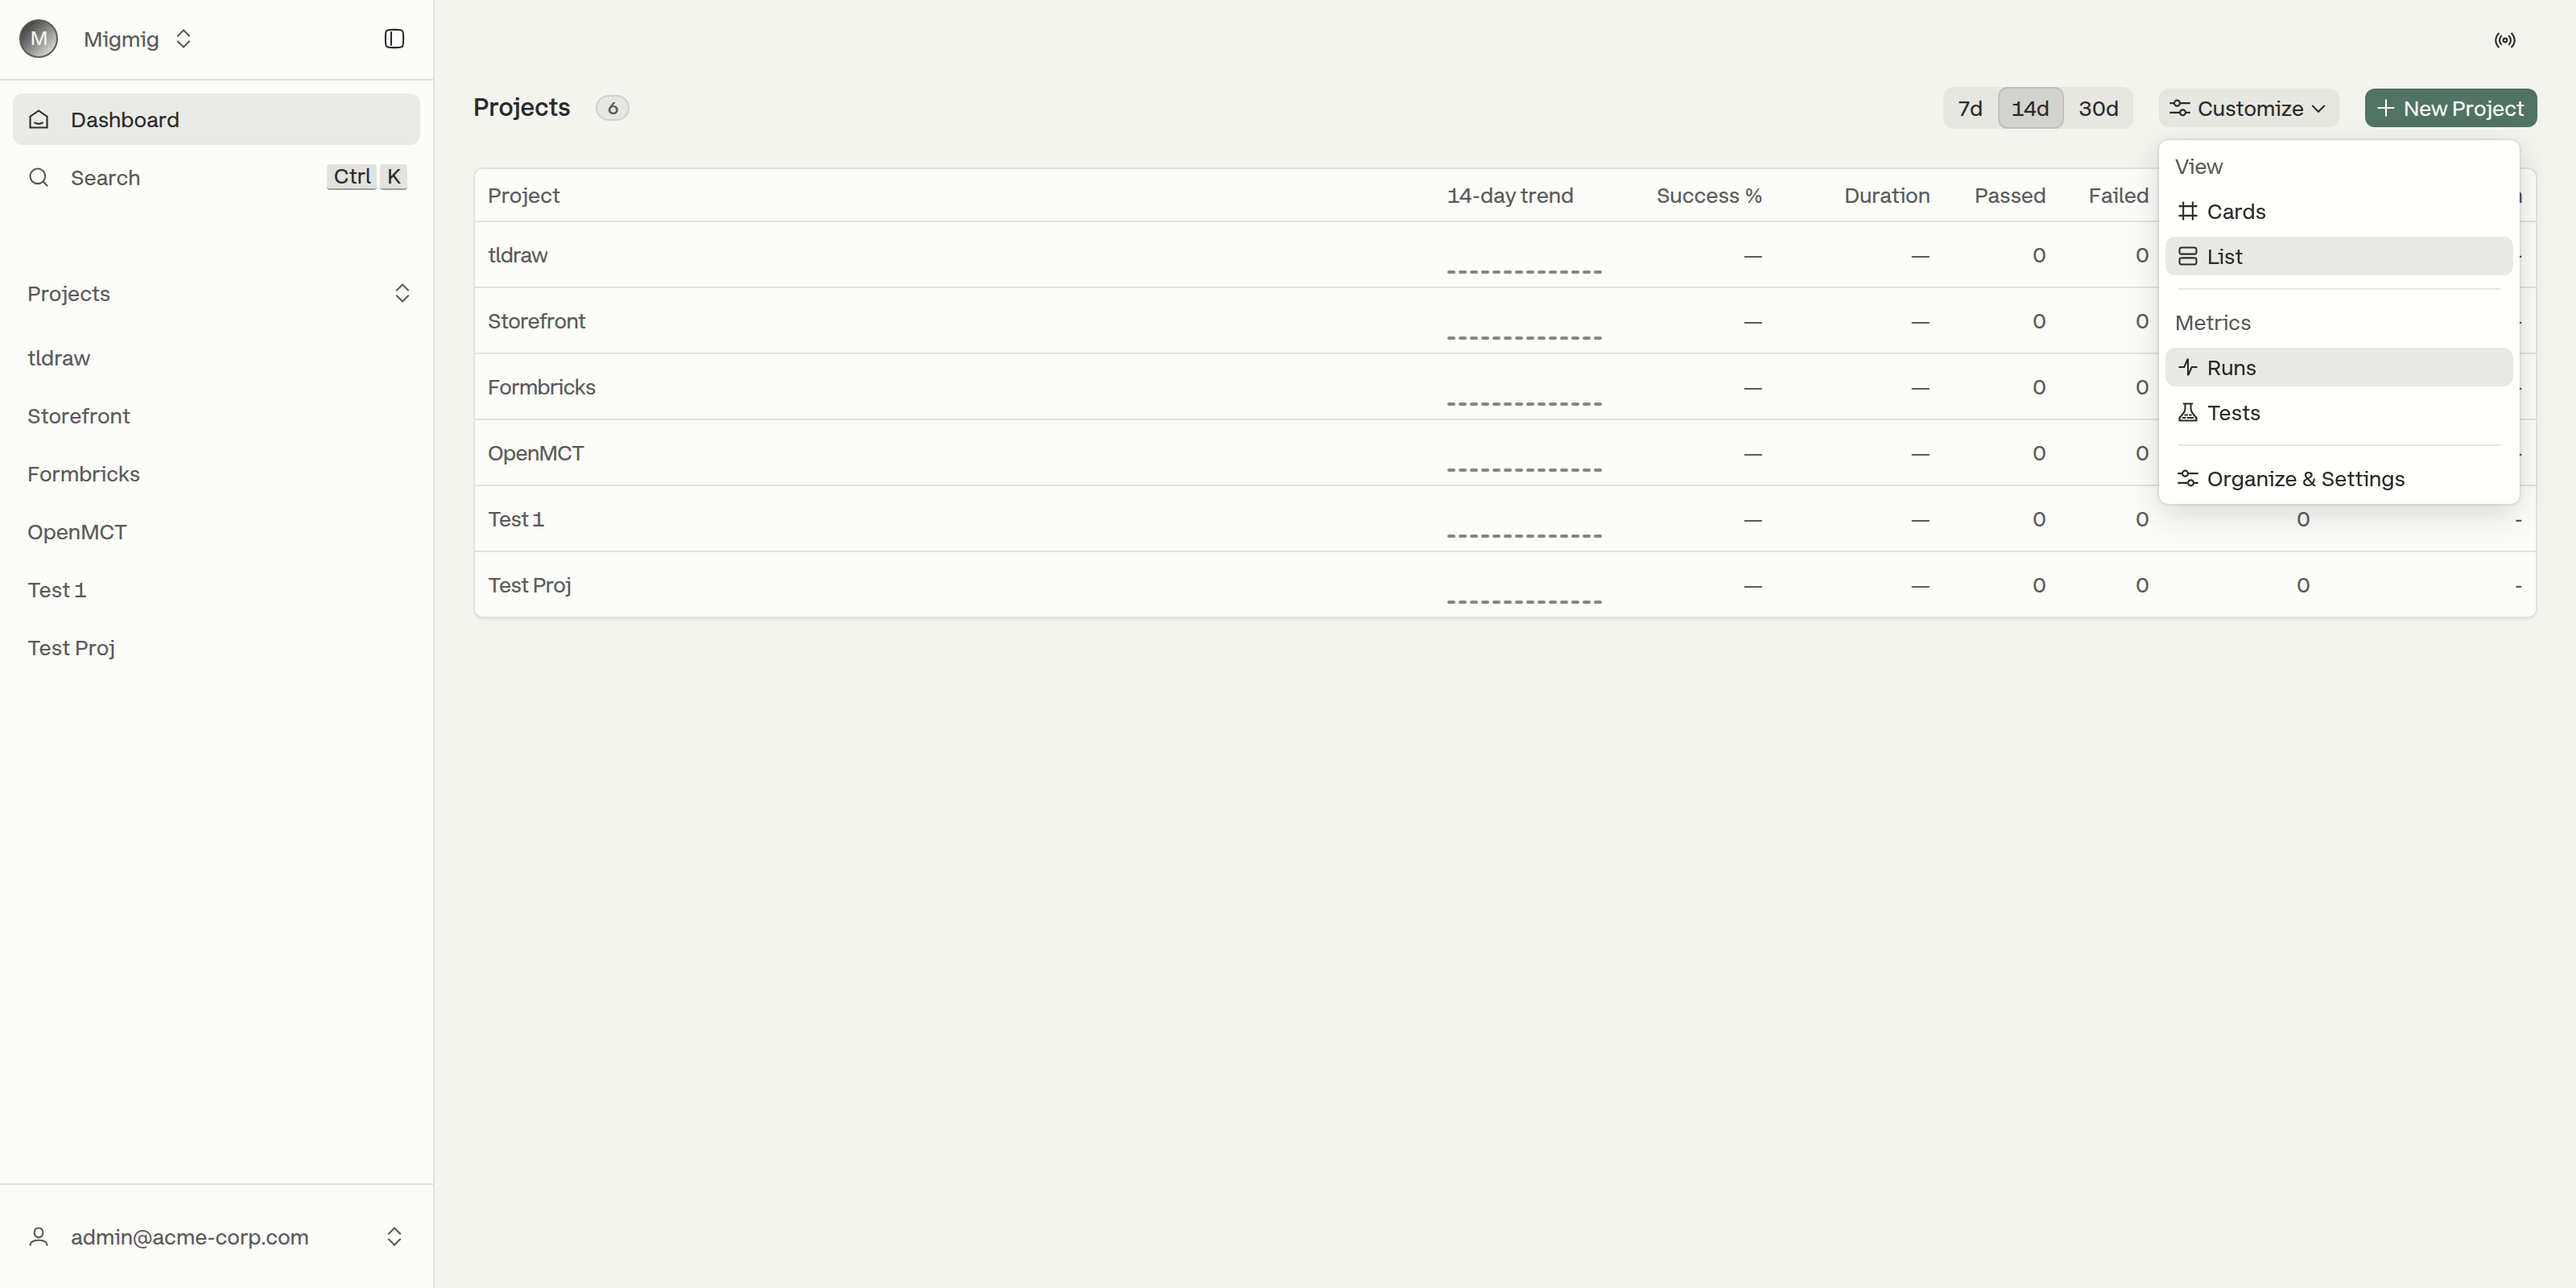
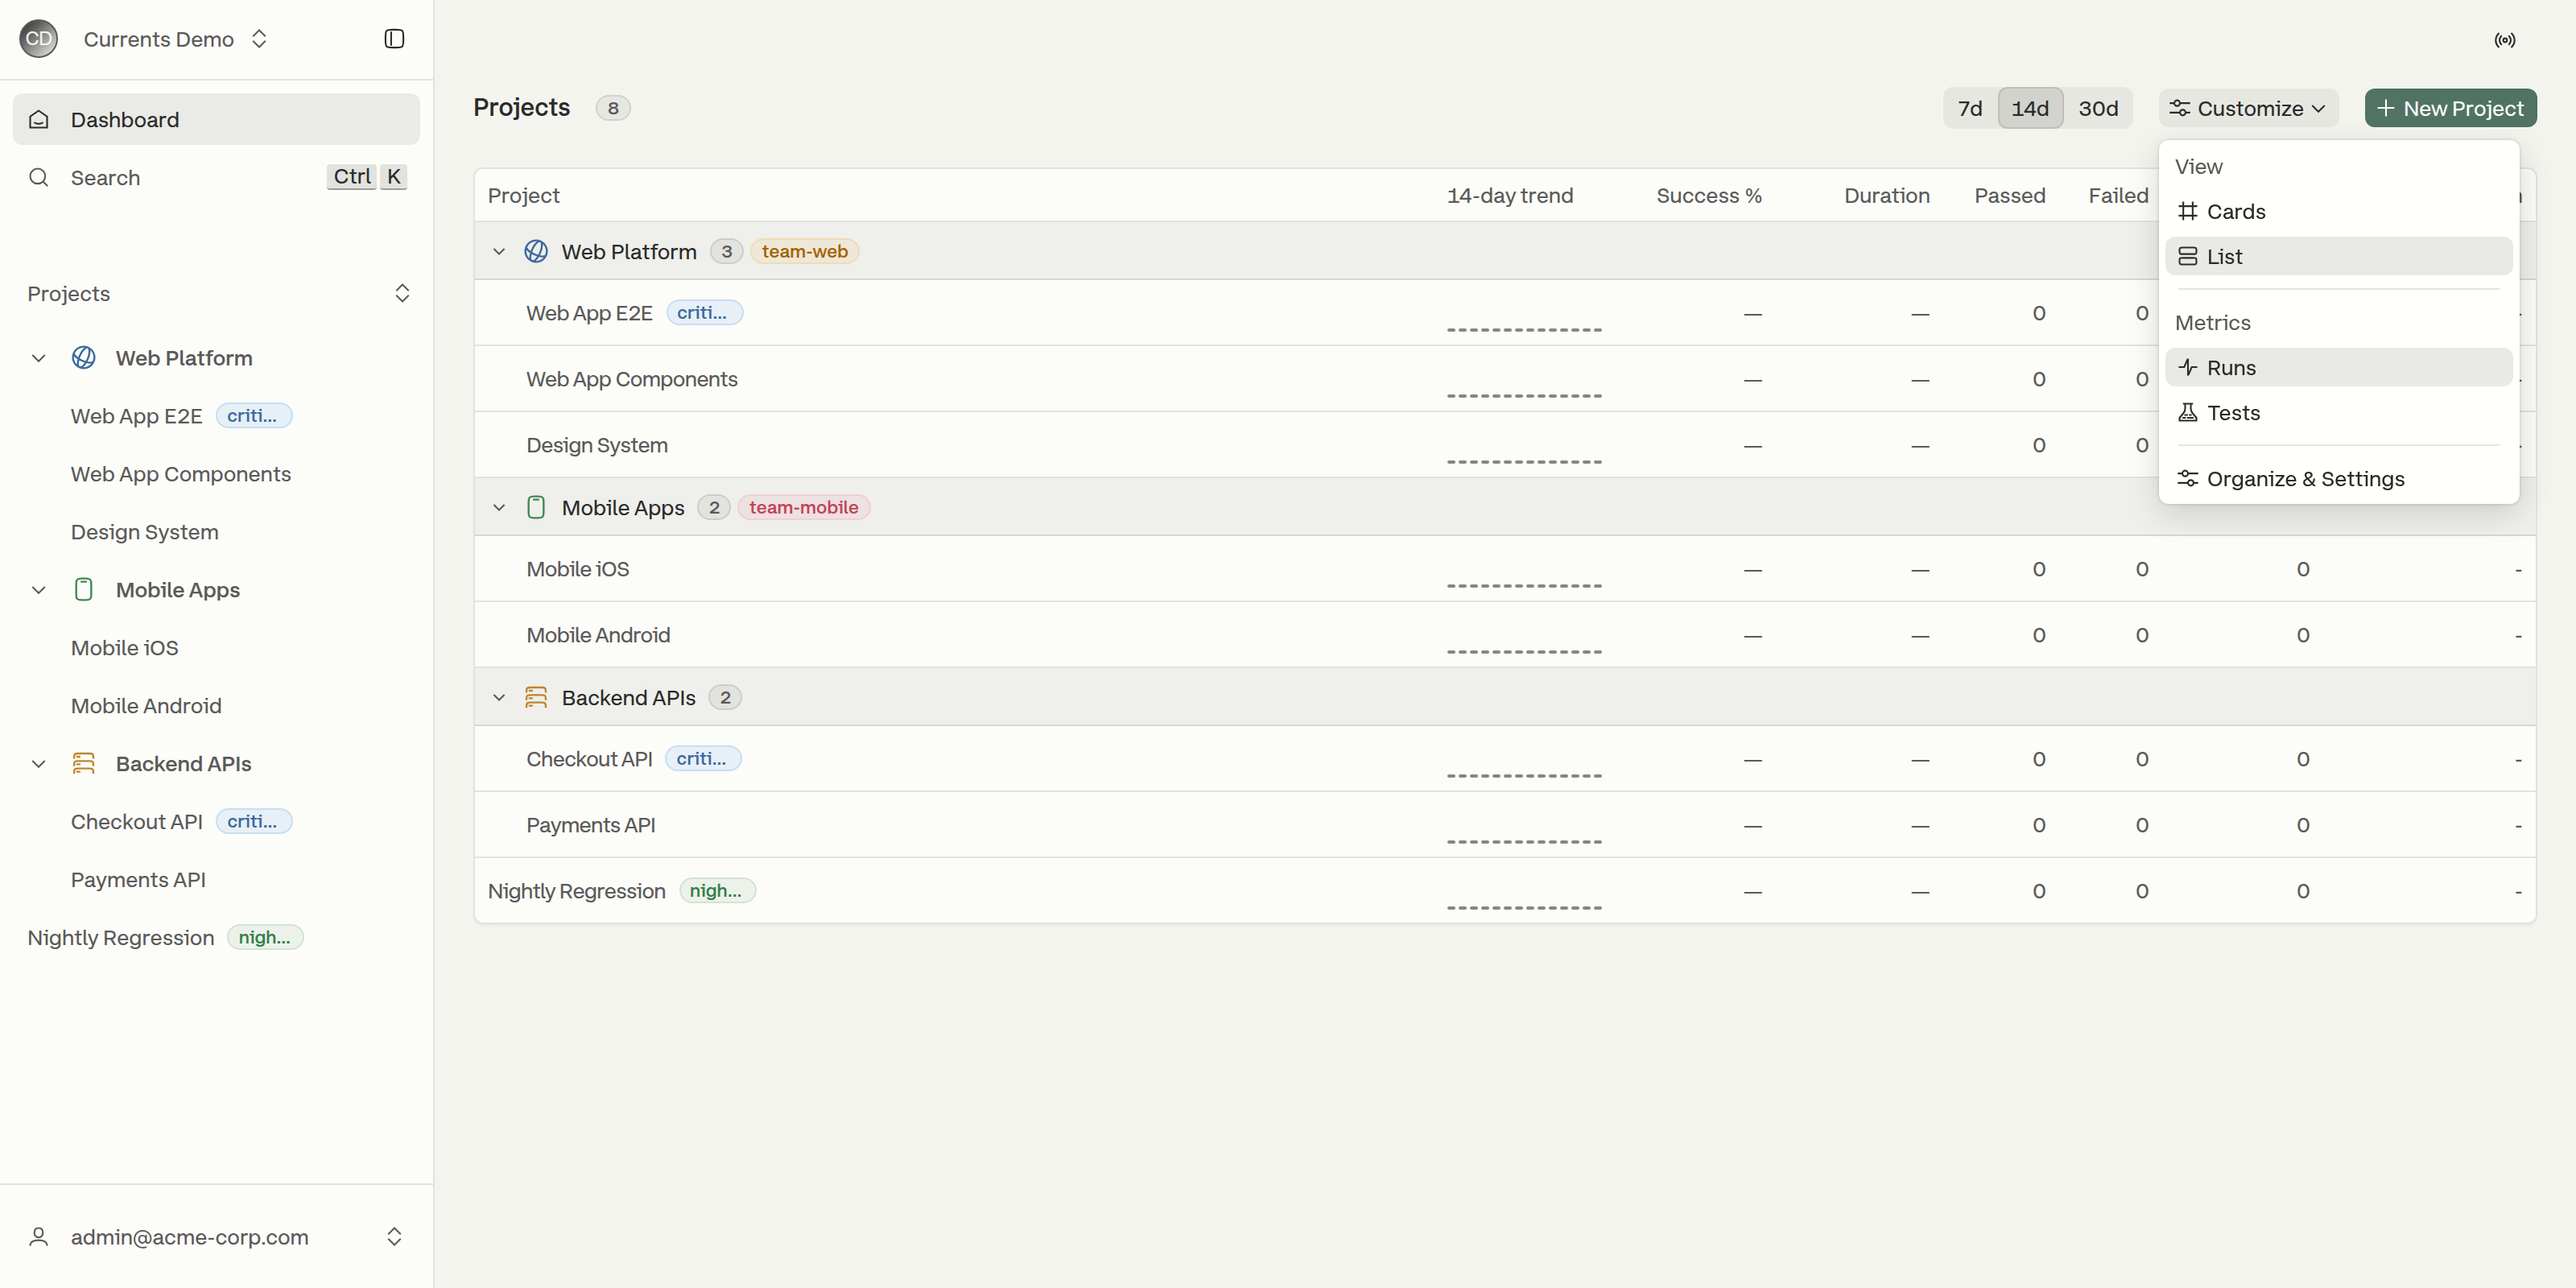
docs: recapture the Projects page shots from the demo org
Both Projects-page screenshots were taken by navigating to '/', which
renders whichever organization is active — after a re-login that was a
different org, so the images showed unrelated projects and no folders at
all, contradicting the surrounding text. Pin the active org before the
first paint and recapture.

Also state the precedence between the three preview states, since the
table alone left cancelled-and-still-reporting runs ambiguous: the
predicates are mutually exclusive (canceled > timeout > in-progress),
and In progress depends only on whether every spec reported, not on
pass/fail.

diff --git a/dashboard/administration/manage-projects.md b/dashboard/administration/manage-projects.md
@@ -101,6 +101,8 @@ The Projects page shows a preview card per project with its run (or test) totals
 
 <table><thead><tr><th width="180">State</th><th>Runs it covers</th></tr></thead><tbody><tr><td><strong>Cancelled</strong></td><td>Runs cancelled before they finished reporting</td></tr><tr><td><strong>Timed out</strong></td><td>Runs that hit the inactivity timeout</td></tr><tr><td><strong>In progress</strong></td><td>Runs still reporting — not all specs are in yet</td></tr></tbody></table>
 
+The three states are mutually exclusive, in that order of precedence: a cancelled run counts as **Cancelled** even if it also timed out or never finished reporting, and a timed-out run counts as **Timed out** rather than **In progress**. **In progress** is decided purely by whether every spec has reported — a run that reported in full counts as complete whether its tests passed or failed.
+
 All three states are counted by default. Turning one off excludes those runs **entirely** from the preview's totals and success rate — useful when, for example, cancelled runs are dragging the success rate down.
 
 <figure><img src="../../.gitbook/assets/manage-projects-preview.png" alt=""><figcaption><p>Choosing which run states count towards the project preview cards</p></figcaption></figure>
